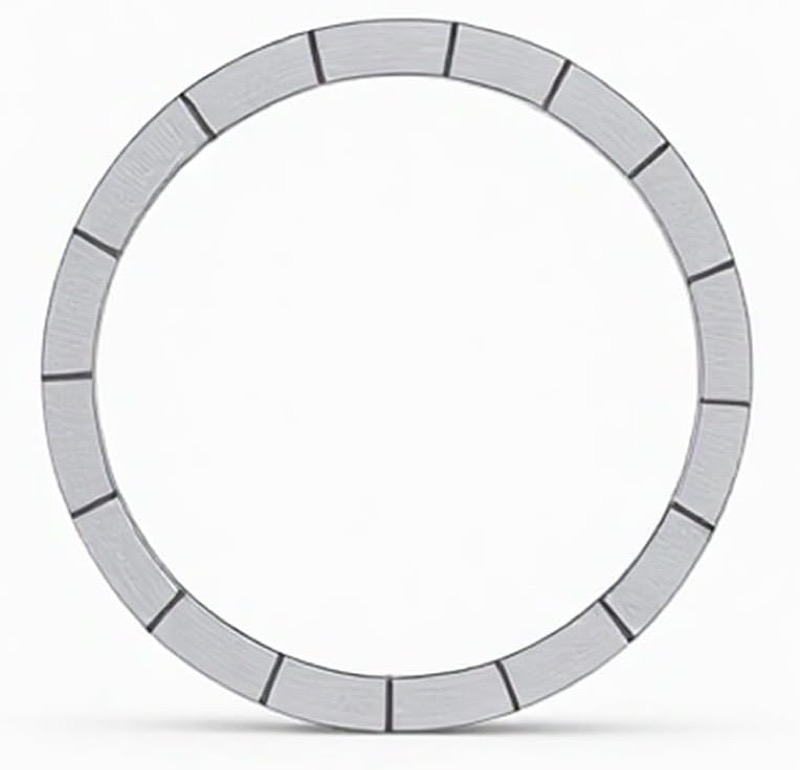
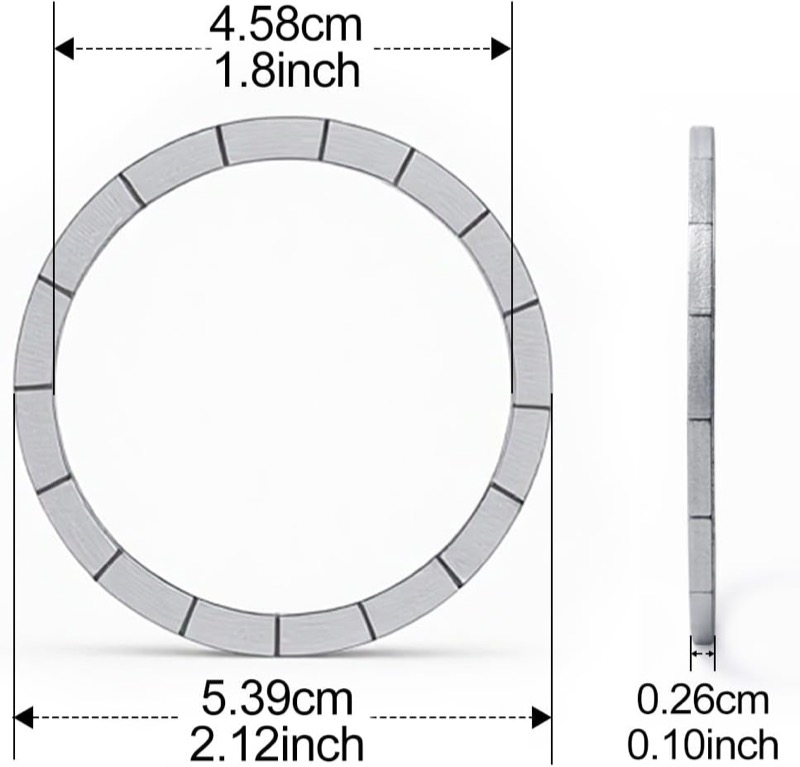
Build guide: screws, magnet dimensions, every ASIN clickable
Adds the M2.5 screw assortment, which the build needs because the M.2 retaining screw is
M2.5 and easy to lose.

The magnet photo is swapped for the dimensioned one from the same listing, and the
measurements are now in the spec list: 53.9 mm outer, 45.8 mm inner, 2.6 mm thick. Anyone
buying a different brand can match it.

Every ASIN is a link now rather than plain text, and the SD card row has one at all.

diff --git a/build.html b/build.html
@@ -613,6 +613,9 @@ footer {
   .part-photo { max-width: 220px; }
   .spec > div { grid-template-columns: minmax(0, 1fr); gap: 2px; }
 }
+
+.spec dd a.mono, .part-links a { color: var(--accent); }
+.spec dd a.mono { text-decoration: underline; text-underline-offset: 2px; }
 </style>
 
 <header class="masthead">
@@ -630,7 +633,7 @@ footer {
       </div>
       <div class="masthead-side">
         <div class="statlist">
-          <div class="statrow"><span class="stat-label">Parts</span><span class="val">5 required, 4 optional</span></div>
+          <div class="statrow"><span class="stat-label">Parts</span><span class="val">6 required, 4 optional</span></div>
           <div class="statrow"><span class="stat-label">Radio</span><span class="val">Intel BE200, Wi-Fi 7</span></div>
           <div class="statrow"><span class="stat-label">Tools</span><span class="val">Small Phillips driver</span></div>
           <div class="statrow"><span class="stat-label">Soldering</span><span class="val">None</span></div>
@@ -670,7 +673,7 @@ footer {
           <div class="part-photo"><img src="images/nanopi-zero2.jpg" alt="NanoPi Zero2" loading="lazy"></div>
           <div class="part-body">
             <p class="part-note">Buy the <strong>2 GB, no eMMC, with case</strong> option. Skip the bundled Wi-Fi card and SD card: the card that ships with it is not a BE200, and you will supply your own SD.</p>
-            <dl class="spec"><div><dt>SoC</dt><dd>Rockchip RK3528A, quad-core Cortex-A53</dd></div><div><dt>Memory</dt><dd>2 GB LPDDR4X (1 GB variant also sold)</dd></div><div><dt>Expansion</dt><dd>M.2 Key E slot, PCIe</dd></div><div><dt>Network</dt><dd>Gigabit Ethernet, Realtek RTL8211F PHY</dd></div><div><dt>Power / data</dt><dd>USB-C</dd></div><div><dt>Console</dt><dd>UART header, 3.3 V, 1,500,000 baud</dd></div><div><dt>Source</dt><dd>FriendlyElec &middot; Amazon <span class="mono">B0DHLF6WL5</span></dd></div></dl>
+            <dl class="spec"><div><dt>SoC</dt><dd>Rockchip RK3528A, quad-core Cortex-A53</dd></div><div><dt>Memory</dt><dd>2 GB LPDDR4X (1 GB variant also sold)</dd></div><div><dt>Expansion</dt><dd>M.2 Key E slot, PCIe</dd></div><div><dt>Network</dt><dd>Gigabit Ethernet, Realtek RTL8211F PHY</dd></div><div><dt>Power / data</dt><dd>USB-C</dd></div><div><dt>Console</dt><dd>UART header, 3.3 V, 1,500,000 baud</dd></div><div><dt>Source</dt><dd>FriendlyElec &middot; Amazon <a class="mono" href="https://www.amazon.com/dp/B0DHLF6WL5">B0DHLF6WL5</a></dd></div></dl>
             <p class="part-links"><a href="https://www.amazon.com/dp/B0DHLF6WL5">Amazon</a> &middot; <a href="https://www.friendlyelec.com/index.php?route=product/product&amp;product_id=304">FriendlyElec</a> &middot; <a href="https://wiki.friendlyelec.com/wiki/index.php/NanoPi_Zero2">Wiki</a></p>
           </div>
         </div>
@@ -689,7 +692,7 @@ footer {
           <div class="part-photo"><img src="images/intel-be200.jpg" alt="Intel BE200, non-vPro" loading="lazy"></div>
           <div class="part-body">
             <p class="part-note">The part number matters. See <a href="#be200">Get the BE200 variant right</a> before ordering &mdash; the label on the card itself reads <span class="mono">BE200NGW</span> either way, so a photo cannot tell you which variant is in the box.</p>
-            <dl class="spec"><div><dt>Intel part</dt><dd><span class="mono strong">282726</span></dd></div><div><dt>Model</dt><dd><span class="mono strong">BE200.NGWG.NV</span></dd></div><div><dt>Variant</dt><dd><strong>Non-vPro</strong>, listed as &ldquo;No vPro&rdquo;</dd></div><div><dt>Form factor</dt><dd>M.2 2230, Key E</dd></div><div><dt>Radio</dt><dd>Wi-Fi 7, 2&times;2, tri-band, plus Bluetooth</dd></div><div><dt>Max width</dt><dd>160 MHz on 5 and 6 GHz</dd></div><div><dt>Driver</dt><dd><span class="mono">iwlmld</span>, firmware core 106</dd></div><div><dt>Source</dt><dd>Amazon <span class="mono">B0DFKF4T56</span></dd></div></dl>
+            <dl class="spec"><div><dt>Intel part</dt><dd><span class="mono strong">282726</span></dd></div><div><dt>Model</dt><dd><span class="mono strong">BE200.NGWG.NV</span></dd></div><div><dt>Variant</dt><dd><strong>Non-vPro</strong>, listed as &ldquo;No vPro&rdquo;</dd></div><div><dt>Form factor</dt><dd>M.2 2230, Key E</dd></div><div><dt>Radio</dt><dd>Wi-Fi 7, 2&times;2, tri-band, plus Bluetooth</dd></div><div><dt>Max width</dt><dd>160 MHz on 5 and 6 GHz</dd></div><div><dt>Driver</dt><dd><span class="mono">iwlmld</span>, firmware core 106</dd></div><div><dt>Source</dt><dd>Amazon <a class="mono" href="https://www.amazon.com/dp/B0DFKF4T56">B0DFKF4T56</a></dd></div></dl>
             <p class="part-links"><a href="https://www.amazon.com/dp/B0DFKF4T56">Amazon</a></p>
           </div>
         </div>
@@ -708,7 +711,7 @@ footer {
           <div class="part-photo"><img src="images/mhf4-pigtail.jpg" alt="MHF4 to RP-SMA pigtails" loading="lazy"></div>
           <div class="part-body">
             <p class="part-note">Two needed, sold in fours. These carry the signal from the card&rsquo;s tiny MHF4 sockets out to the case.</p>
-            <dl class="spec"><div><dt>Ends</dt><dd>MHF4 (U.FL) to <strong>RP-SMA female</strong></dd></div><div><dt>Length</dt><dd>15 cm / 5.9 in</dd></div><div><dt>Impedance</dt><dd>50 &Omega;</dd></div><div><dt>Quantity</dt><dd>4 per pack</dd></div><div><dt>Fits</dt><dd>M.2 NGFF cards. <strong>Not</strong> Mini PCIe</dd></div><div><dt>Source</dt><dd>Amazon <span class="mono">B07S2LYC1F</span></dd></div></dl>
+            <dl class="spec"><div><dt>Ends</dt><dd>MHF4 (U.FL) to <strong>RP-SMA female</strong></dd></div><div><dt>Length</dt><dd>15 cm / 5.9 in</dd></div><div><dt>Impedance</dt><dd>50 &Omega;</dd></div><div><dt>Quantity</dt><dd>4 per pack</dd></div><div><dt>Fits</dt><dd>M.2 NGFF cards. <strong>Not</strong> Mini PCIe</dd></div><div><dt>Source</dt><dd>Amazon <a class="mono" href="https://www.amazon.com/dp/B07S2LYC1F">B07S2LYC1F</a></dd></div></dl>
             <p class="part-links"><a href="https://www.amazon.com/dp/B07S2LYC1F">Amazon</a></p>
           </div>
         </div>
@@ -734,6 +737,27 @@ footer {
       </details>
       <details class="part">
         <summary>
+          <img class="part-thumb" src="images/screws.jpg" alt="M2.5 screw assortment" loading="lazy" width="72" height="72">
+          <span class="sum-text">
+            <span class="sum-title">M2.5 screw assortment</span>
+            <span class="sum-line">M.2 retaining screw is M2.5</span>
+          </span>
+          <span class="chip chip-ok">Required</span>
+          <span class="sum-chev" aria-hidden="true">+</span>
+        </summary>
+        <div class="part-detail">
+          <div class="part-photo"><img src="images/screws.jpg" alt="M2.5 screw assortment" loading="lazy"></div>
+          <div class="part-body">
+            <p class="part-note">The M.2 card is held down by a single small screw, and the M.2
+            standard specifies <strong>M2.5</strong>. An assortment is worth having because that screw
+            is easy to lose and impossible to improvise.</p>
+            <dl class="spec"><div><dt>Thread</dt><dd><strong>M2.5</strong>, the M.2 retaining size</dd></div><div><dt>Material</dt><dd>304 stainless steel</dd></div><div><dt>Head</dt><dd>Countersunk, hex socket</dd></div><div><dt>Contents</dt><dd>1110 pieces, with nuts, washers and a hex key</dd></div><div><dt>Source</dt><dd>Amazon <a class="mono" href="https://www.amazon.com/dp/B0GFDJNTRX">B0GFDJNTRX</a></dd></div></dl>
+            <p class="part-links"><a href="https://www.amazon.com/dp/B0GFDJNTRX">Amazon</a></p>
+          </div>
+        </div>
+      </details>
+      <details class="part">
+        <summary>
           <img class="part-thumb" src="images/sdcard.jpg" alt="microSD card" loading="lazy" width="72" height="72">
           <span class="sum-text">
             <span class="sum-title">microSD card</span>
@@ -746,8 +770,8 @@ footer {
           <div class="part-photo"><img src="images/sdcard.jpg" alt="microSD card" loading="lazy"></div>
           <div class="part-body">
             <p class="part-note">Any size from 8 GB up. The image expands to fill the card on first boot, so buy for capture headroom, not for the image. <strong>Sustained write speed is the spec that matters</strong> &mdash; see <a href="#sdcard">the card is the bottleneck</a>.</p>
-            <dl class="spec"><div><dt>Minimum</dt><dd>A2 and V30, so 30 MB/s sustained write</dd></div><div><dt>Known good</dt><dd>SanDisk Extreme microSDXC &mdash; C10, U3, V30, A2 <span class="mono">B07FCMKK5X</span></dd></div><div><dt>Size</dt><dd>32&ndash;64 GB is a sensible middle</dd></div><div><dt>Endurance</dt><dd>&ldquo;High endurance&rdquo; is a nice-to-have, not required</dd></div><div><dt>Before trusting it</dt><dd>Benchmark the write speed. A card can read perfectly and write at a crawl</dd></div><div><dt>Avoid</dt><dd>The cheaper SanDisk <em>Ultra</em> line is A1/U1 and does not meet this</dd></div></dl>
-            
+            <dl class="spec"><div><dt>Minimum</dt><dd>A2 and V30, so 30 MB/s sustained write</dd></div><div><dt>Known good</dt><dd>SanDisk Extreme microSDXC &mdash; C10, U3, V30, A2 <a class="mono" href="https://www.amazon.com/dp/B07FCMKK5X">B07FCMKK5X</a></dd></div><div><dt>Size</dt><dd>32&ndash;64 GB is a sensible middle</dd></div><div><dt>Endurance</dt><dd>&ldquo;High endurance&rdquo; is a nice-to-have, not required</dd></div><div><dt>Before trusting it</dt><dd>Benchmark the write speed. A card can read perfectly and write at a crawl</dd></div><div><dt>Avoid</dt><dd>The cheaper SanDisk <em>Ultra</em> line is A1/U1 and does not meet this</dd></div></dl>
+            <p class="part-links"><a href="https://www.amazon.com/dp/B07FCMKK5X">SanDisk Extreme on Amazon</a></p>
           </div>
         </div>
       </details>
@@ -776,7 +800,7 @@ footer {
           <div class="part-photo"><img src="images/thermal-pad.jpg" alt="0.5 mm thermal pad" loading="lazy"></div>
           <div class="part-body">
             <p class="part-note">The case already ships with a pad, so this is not something the build needs to work &mdash; the stock one is just thin and cheap. Orb is firm that <em>a</em> pad is required: &ldquo;the card needs the pad to transfer heat to the case and run reliably.&rdquo; Replacing it with a decent 0.5 mm pad is a cheap upgrade, and it matters more here than on most boards because mainline has no thermal zone for this SoC, so nothing throttles on your behalf.</p>
-            <dl class="spec"><div><dt>Product</dt><dd>ARCTIC TP-3</dd></div><div><dt>Thickness</dt><dd><strong>0.5 mm</strong>, matching the stock pad</dd></div><div><dt>Sheet</dt><dd>120 &times; 20 mm, 4 per pack</dd></div><div><dt>Do not go thicker</dt><dd>Too thick stops the case closing flat and makes contact worse</dd></div><div><dt>Source</dt><dd>Amazon <span class="mono">B09V518BXM</span></dd></div></dl>
+            <dl class="spec"><div><dt>Product</dt><dd>ARCTIC TP-3</dd></div><div><dt>Thickness</dt><dd><strong>0.5 mm</strong>, matching the stock pad</dd></div><div><dt>Sheet</dt><dd>120 &times; 20 mm, 4 per pack</dd></div><div><dt>Do not go thicker</dt><dd>Too thick stops the case closing flat and makes contact worse</dd></div><div><dt>Source</dt><dd>Amazon <a class="mono" href="https://www.amazon.com/dp/B09V518BXM">B09V518BXM</a></dd></div></dl>
             <p class="part-links"><a href="https://www.amazon.com/dp/B09V518BXM">Amazon</a></p>
           </div>
         </div>
@@ -795,7 +819,7 @@ footer {
           <div class="part-photo"><img src="images/usbc-cable.jpg" alt="Short right-angle USB-C cable" loading="lazy"></div>
           <div class="part-body">
             <p class="part-note">Powers the sensor and carries the network link at the same time. Plug it into a laptop or phone and the sensor appears at <span class="mono">198.18.42.1</span> with no ethernet involved. The right angle keeps it from levering on the port in a bag.</p>
-            <dl class="spec"><div><dt>Product</dt><dd>JUXINICE 90&deg; USB-C male to male</dd></div><div><dt>Length</dt><dd>10 cm / 4 in, flat and pliable</dd></div><div><dt>Quantity</dt><dd>2 per pack</dd></div><div><dt>Source</dt><dd>Amazon <span class="mono">B0CSW84W7J</span></dd></div></dl>
+            <dl class="spec"><div><dt>Product</dt><dd>JUXINICE 90&deg; USB-C male to male</dd></div><div><dt>Length</dt><dd>10 cm / 4 in, flat and pliable</dd></div><div><dt>Quantity</dt><dd>2 per pack</dd></div><div><dt>Source</dt><dd>Amazon <a class="mono" href="https://www.amazon.com/dp/B0CSW84W7J">B0CSW84W7J</a></dd></div></dl>
             <p class="part-links"><a href="https://www.amazon.com/dp/B0CSW84W7J">Amazon</a></p>
           </div>
         </div>
@@ -805,7 +829,7 @@ footer {
           <img class="part-thumb" src="images/magnet-ring.jpg" alt="MagSafe magnet rings" loading="lazy" width="72" height="72">
           <span class="sum-text">
             <span class="sum-title">MagSafe magnet rings</span>
-            <span class="sum-line">Magnetic mounting</span>
+            <span class="sum-line">53.9 mm outer &middot; 2.6 mm thick</span>
           </span>
           <span class="chip chip-untested">Optional</span>
           <span class="sum-chev" aria-hidden="true">+</span>
@@ -814,7 +838,7 @@ footer {
           <div class="part-photo"><img src="images/magnet-ring.jpg" alt="MagSafe magnet rings" loading="lazy"></div>
           <div class="part-body">
             <p class="part-note">For sticking the finished sensor to something steel, or to a 3D-printed mount. Sold for DIY and print-in projects rather than as a phone accessory.</p>
-            <dl class="spec"><div><dt>Type</dt><dd>Magnet ring, MagSafe-compatible</dd></div><div><dt>Quantity</dt><dd>2 per pack</dd></div><div><dt>Intended use</dt><dd>DIY and 3D printing, accessory side</dd></div><div><dt>Source</dt><dd>Amazon <span class="mono">B0GYSGWTKV</span></dd></div></dl>
+            <dl class="spec"><div><dt>Type</dt><dd>Magnet ring, MagSafe-compatible</dd></div><div><dt>Outer &oslash;</dt><dd>53.9 mm / 2.12 in</dd></div><div><dt>Inner &oslash;</dt><dd>45.8 mm / 1.80 in</dd></div><div><dt>Thickness</dt><dd>2.6 mm / 0.10 in</dd></div><div><dt>Quantity</dt><dd>2 per pack</dd></div><div><dt>Intended use</dt><dd>DIY and 3D printing, accessory side</dd></div><div><dt>Source</dt><dd>Amazon <a class="mono" href="https://www.amazon.com/dp/B0GYSGWTKV">B0GYSGWTKV</a></dd></div></dl>
             <p class="part-links"><a href="https://www.amazon.com/dp/B0GYSGWTKV">Amazon</a></p>
           </div>
         </div>
